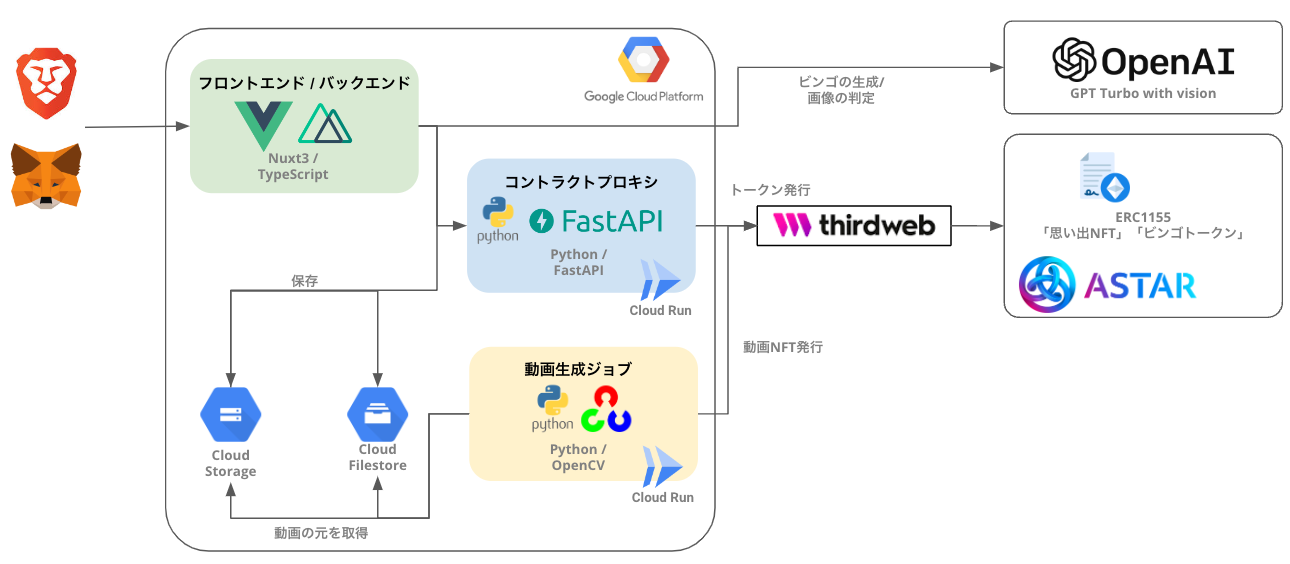
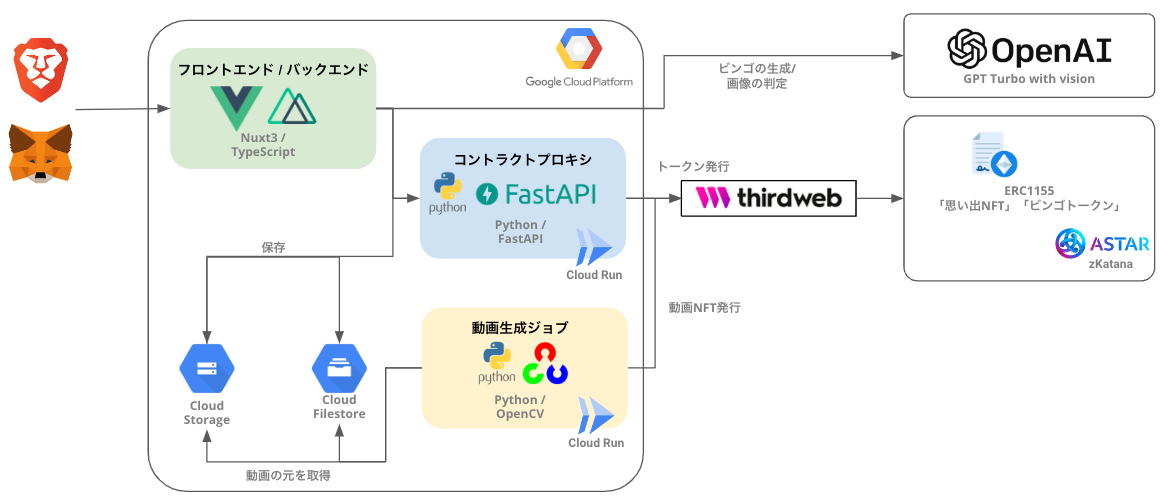
:books: 概要ページへのリンクを付与

diff --git a/README.md b/README.md
@@ -4,6 +4,12 @@
 
 - [デモページ](https://key3-global-hackathon.web.app/)
 
+## 概要
+
+本アプリケーションの概要は以下の URL を参照してください。
+
+- [Sotomiru | AKINDO](https://app.akindo.io/communities/Ql24naKJNfNQlllvZ/products/93llLoRrmFQmKvRZd?tab=overview)
+
 ## 全体構成
 
 Sotomiru の全体構成は下記の通り。
@@ -22,7 +28,7 @@ Sotomiru の全体構成は下記の通り。
 
 > Note: 動画生成ジョブは、動画生成に非常に時間がかかるため、別プロセスのジョブとして実装している。また Python を利用した理由は、nodeJs に動画生成に使いやすいライブラリが存在しなかったため、Python で実装している。
 
-NFT とトークンの発行に利用するコントラクトは、ThirdWeb を利用して Aster の Testnet である Zkatana にデプロイしている。
+NFT とトークンの発行に利用するコントラクトは、 Aster ekEVM の Testnet である zKatana にデプロイしている。
 
 - [Sotomiru Bingo Contract の Chain Explorer](https://zkatana.blockscout.com/address/0xdE430c046381D1814b678e9fF0f3f027A3D3Ac23)
 
